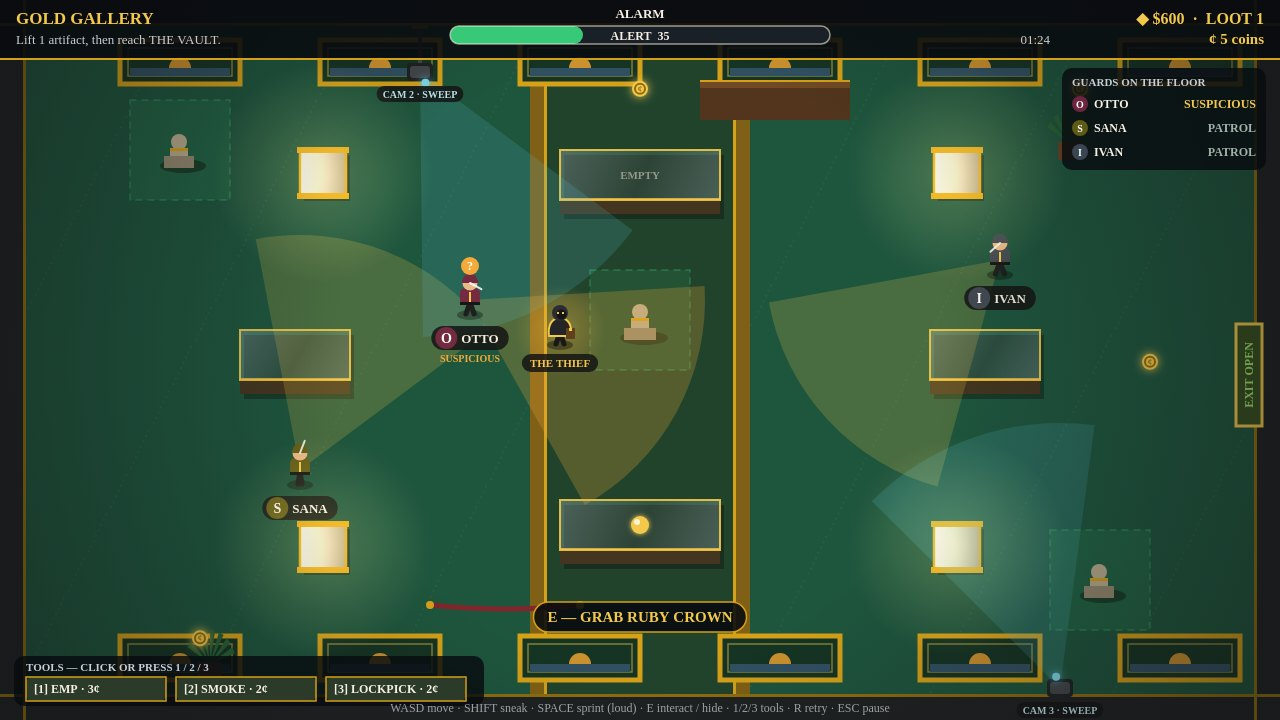
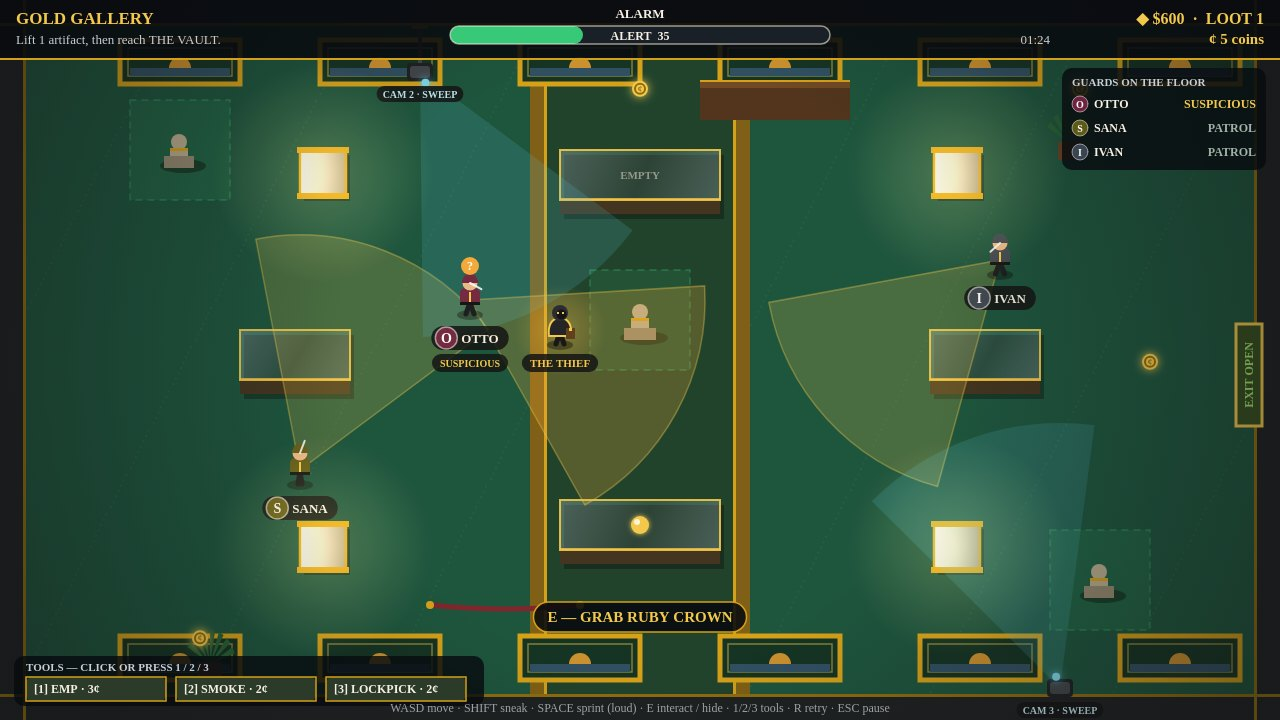
GILDED rev2 — state-text backing pills, stronger guard identity at thumbnail
- Guard state text (SUSPICIOUS/CHASE/SEARCH) now sits in the same dark
  backing pill as the camera labels, with brighter text: bare amber on
  light marble (room 1, LENA) was nearly unreadable. Audit: camera labels
  already backed; HUD list states already on the dark panel; ! / ? marks
  are white glyphs on solid discs; all other in-world labels backed.
- Thumbnail identity: initial chips gain a thin light rim (in-world pills
  and HUD list); KOVAC uniform #2b2b2b -> #565664 — it was identical to
  the steel floor #23282e and invisible as a figure; guard vision cones
  gain a thin edge stroke so cone boundaries read at 300px.
- Smoke 23/23, zero console errors; determinism identical

Changed region(s): [[0.3125, 0.4889, 0.4062, 0.5194], [0.75, 0.3972, 0.7812, 0.4278]]

diff --git a/game/src/render.js b/game/src/render.js
@@ -383,9 +383,14 @@ function drawCones(ctx, game, time) {
       : hot > 0.35
         ? 'rgba(242,169,59,' + (0.18 + hot * 0.16) + ')'
         : 'rgba(242,201,76,0.20)';
+    const edge = g.state === 'chase' ? 'rgba(229,72,77,0.55)' : 'rgba(242,201,76,0.38)';
     ctx.fillStyle = col;
     conePath(ctx, g.x, g.y, g.angle, TUNING.guardVisionRange, TUNING.guardVisionHalfAngle);
     ctx.fill();
+    // Thin edge so the cone boundary still reads at thumbnail size.
+    ctx.strokeStyle = edge;
+    ctx.lineWidth = 1.5;
+    ctx.stroke();
   }
   // Camera cones: cool cyan sweep; amber flash while warning, red while spotted.
   for (const c of game.cameras) {
@@ -494,6 +499,10 @@ function drawNamePill(ctx, x, y, initial, name, color, state) {
   ctx.beginPath();
   ctx.arc(x - w / 2 + 15, y + 12, 11, 0, Math.PI * 2);
   ctx.fill();
+  // Thin light rim so the chip pops off any floor at thumbnail size.
+  ctx.strokeStyle = 'rgba(255,255,255,0.55)';
+  ctx.lineWidth = 1.5;
+  ctx.stroke();
   ctx.fillStyle = '#fff';
   ctx.font = 'bold 14px Georgia, serif';
   ctx.textAlign = 'center';
@@ -503,10 +512,17 @@ function drawNamePill(ctx, x, y, initial, name, color, state) {
   ctx.textAlign = 'left';
   ctx.fillText(name, x - w / 2 + 30, y + 17);
   if (state !== 'PATROL') {
-    ctx.fillStyle = state === 'CHASE' ? '#e5484d' : '#f2a93b';
+    // State text gets the same dark backing pill as the camera labels:
+    // bare amber on light marble (room 1) was nearly unreadable.
     ctx.font = 'bold 10px Georgia, serif';
+    const sw = ctx.measureText(state).width + 16;
+    ctx.fillStyle = 'rgba(10,14,18,0.85)';
+    ctx.beginPath();
+    ctx.roundRect(x - sw / 2, y + 28, sw, 18, 9);
+    ctx.fill();
+    ctx.fillStyle = state === 'CHASE' ? '#ff6b6f' : '#f2c94c';
     ctx.textAlign = 'center';
-    ctx.fillText(state, x, y + 36);
+    ctx.fillText(state, x, y + 41);
   }
 }
 

diff --git a/game/src/hud.js b/game/src/hud.js
@@ -113,6 +113,9 @@ function drawGuardList(ctx, game) {
     ctx.beginPath();
     ctx.arc(x + 8, y, 8, 0, Math.PI * 2);
     ctx.fill();
+    ctx.strokeStyle = 'rgba(255,255,255,0.5)';
+    ctx.lineWidth = 1;
+    ctx.stroke();
     ctx.fillStyle = '#fff';
     ctx.font = 'bold 10px Georgia, serif';
     ctx.textAlign = 'center';

diff --git a/game/src/world.js b/game/src/world.js
@@ -211,7 +211,7 @@ export const ROOMS = [
         ],
       },
       {
-        name: 'KOVAC', color: '#2b2b2b', initial: 'K',
+        name: 'KOVAC', color: '#565664', initial: 'K',
         waypoints: [
           { x: 220, y: 180 }, { x: 220, y: 540 }, { x: 360, y: 540 }, { x: 360, y: 180 },
         ],
